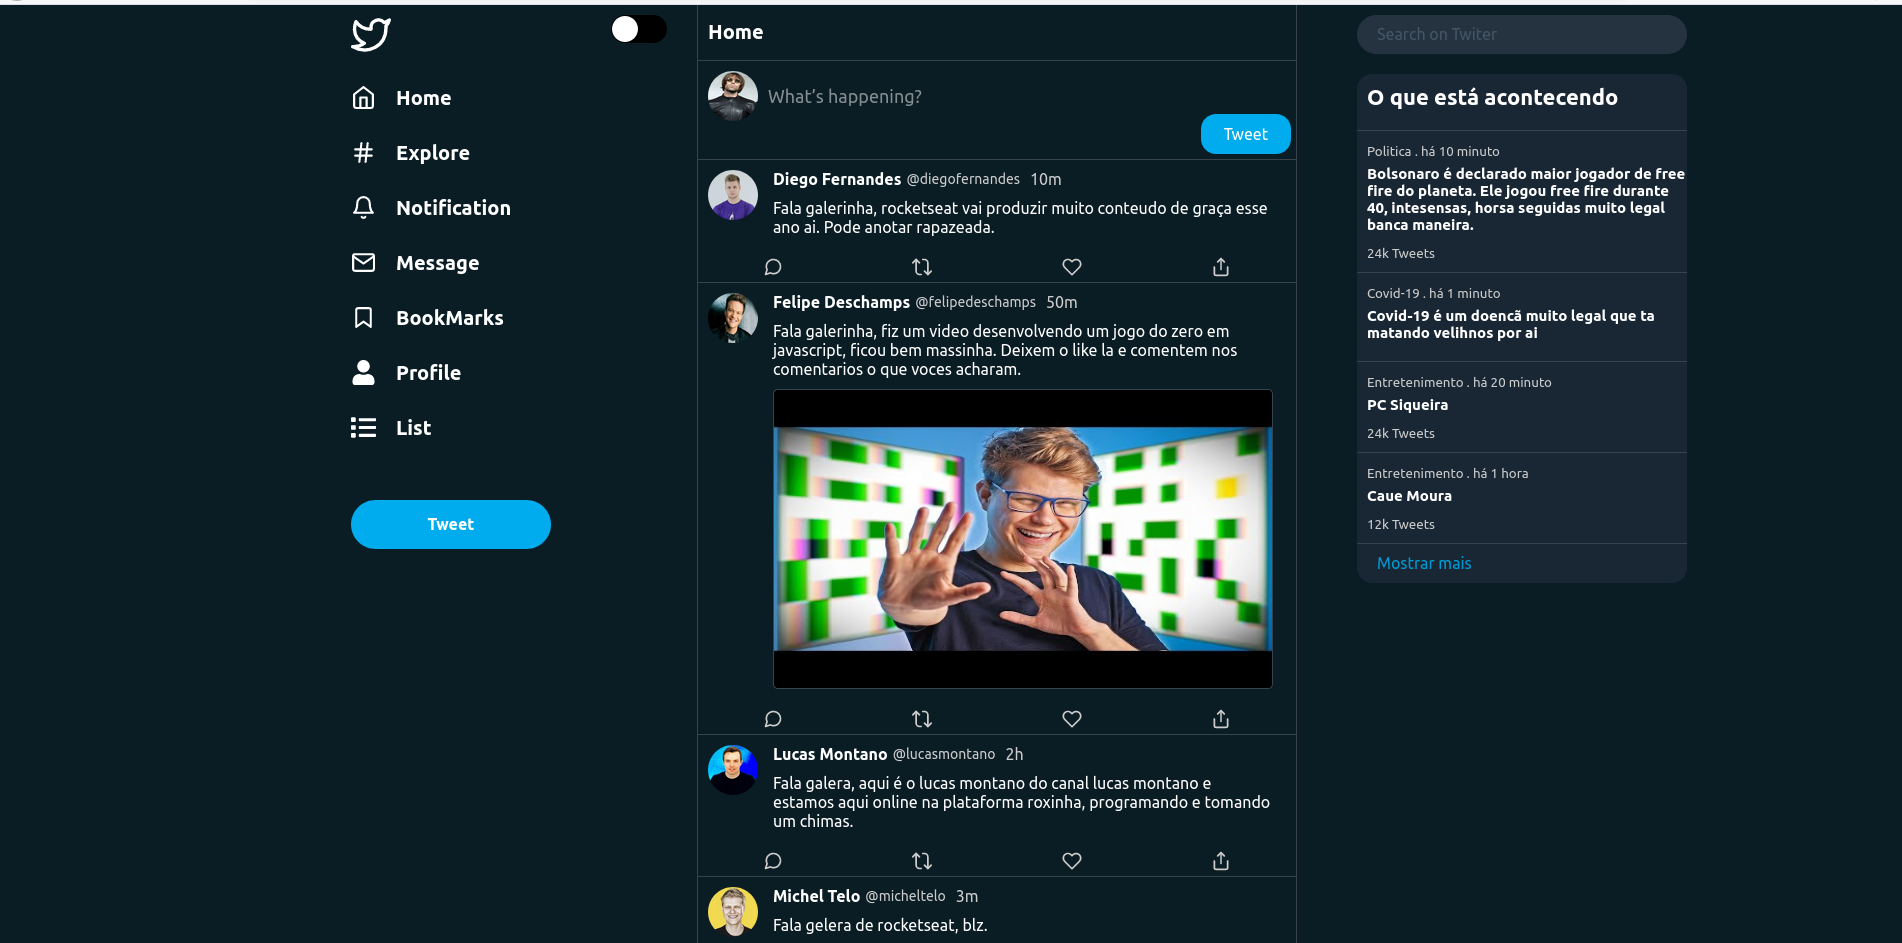
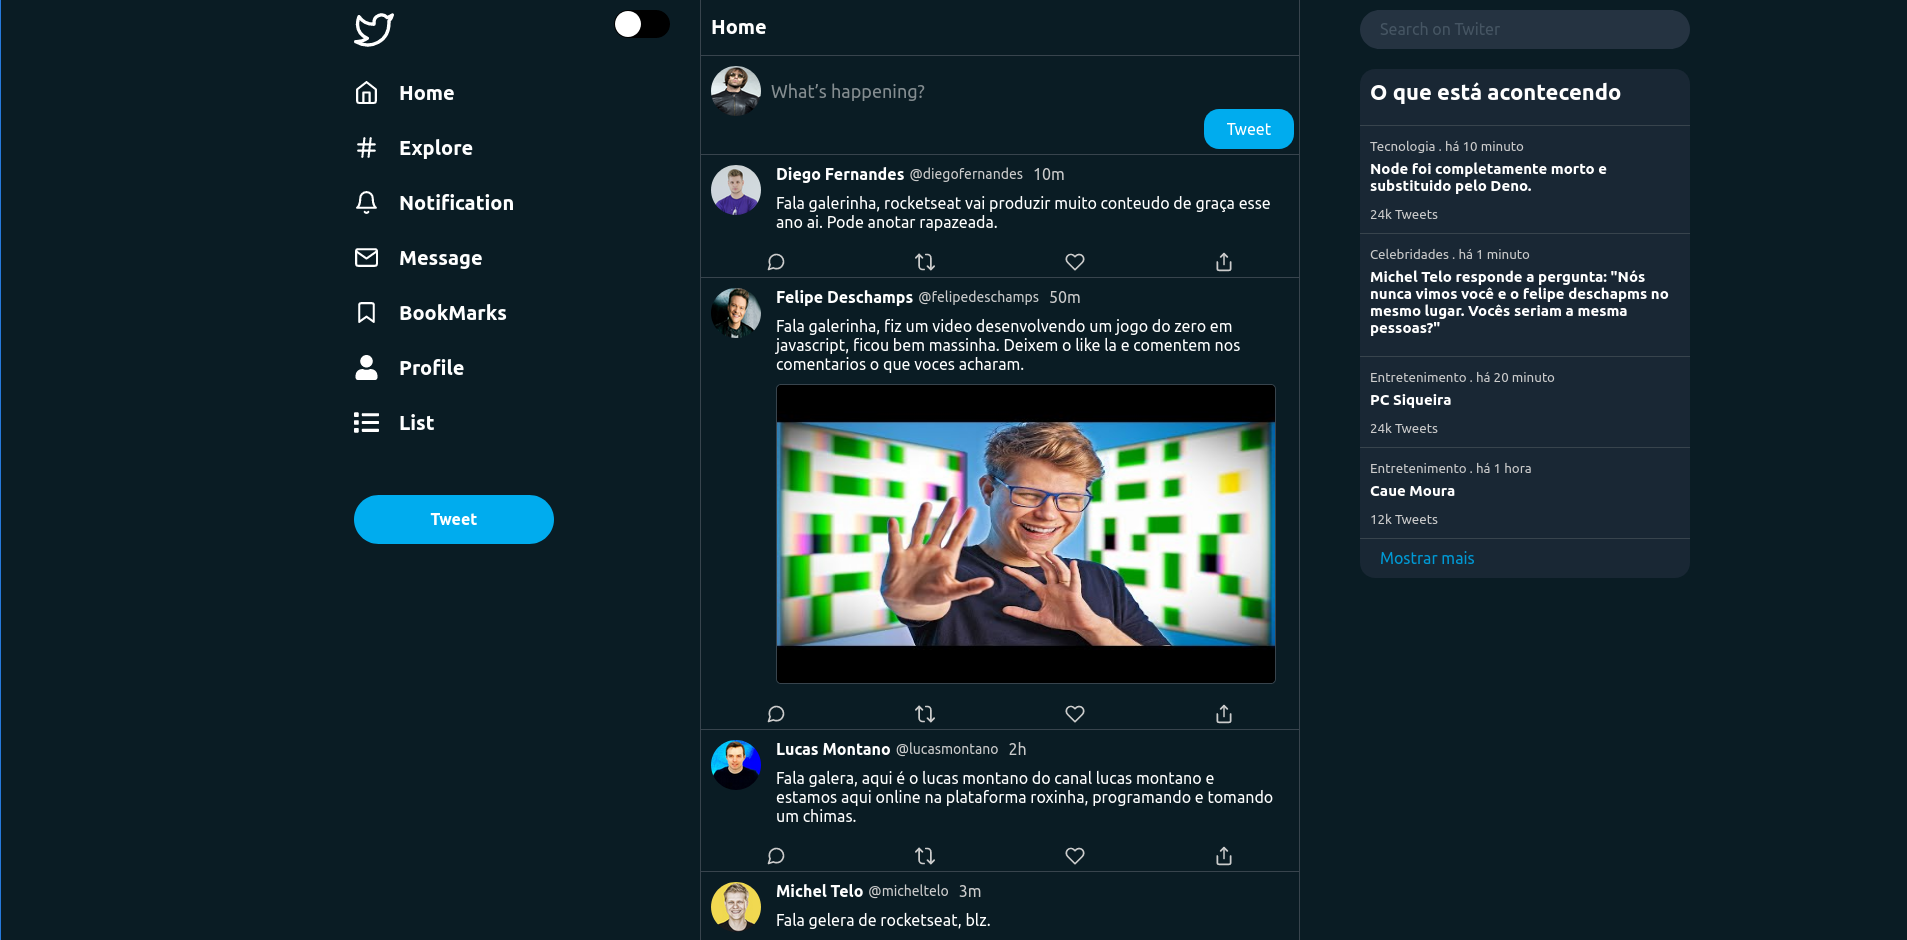
Aplication

diff --git a/src/components/Search/index.js b/src/components/Search/index.js
@@ -13,21 +13,20 @@ function Search() {
               </li>
               
               <li>
-                <small>Politica . há 10 minuto</small>
+                <small>Tecnologia . há 10 minuto</small>
                 <p>
-                    Bolsonaro é declarado maior jogador de 
-                    free fire do planeta. Ele jogou free fire
-                    durante 40, intesensas, horsa seguidas muito
-                    legal banca maneira.
+                    Node foi completamente morto e substituido pelo 
+                    Deno.
                 </p>
                 <small>24k Tweets</small>
               </li>
 
               <li>
-                <small>Covid-19 . há 1 minuto</small>
+                <small>Celebridades . há 1 minuto</small>
                 <p>
-                    Covid-19 é um doencã muito legal
-                    que ta matando velihnos por ai
+                    Michel Telo responde a pergunta:
+                    "Nós nunca vimos você e o felipe deschapms 
+                    no mesmo lugar. Vocês seriam a mesma pessoas?"
                 </p>
               </li>
 

diff --git a/README.md b/README.md
@@ -12,10 +12,10 @@
 
   ## Dark
 
-  <img src="./assets/Preview.pn" alt="preview">
+  <img src="./assets/Preview.png" alt="preview">
 
 
   ## Light
 
 
-  <img src="./assets/Preview2.pn" alt="preview">
+  <img src="./assets/Preview2.png" alt="preview">
